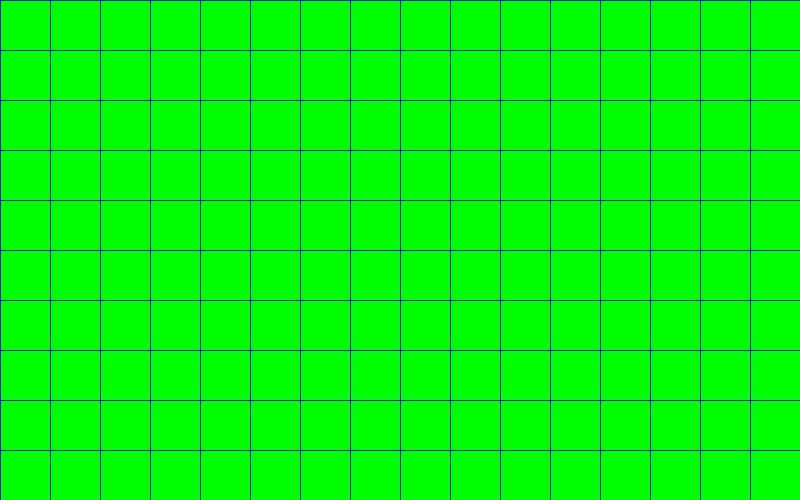
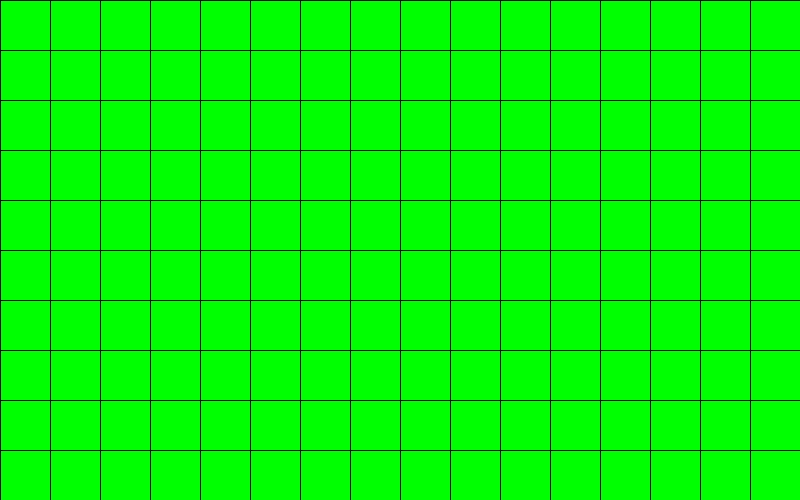
E5 completed 7/5/20

Changed region(s): [[0.0, 0.0, 1.0, 1.0]]

diff --git a/IME5780-E1-5208-8702/src/renderer/Render.java b/IME5780-E1-5208-8702/src/renderer/Render.java
@@ -1,7 +1,6 @@
 package renderer;
 
-import elements.Camera;
-import geometries.Intersectable;
+import primitives.Color;
 import primitives.Point3D;
 import primitives.Ray;
 import scene.Scene;
@@ -13,83 +12,96 @@ import java.util.List;
  *
  * @author AhronS, IsraelN
  */
-
 public class Render {
     private ImageWriter _imageWriter;
     private Scene _scene;
 
+    /**
+     * constructor render
+     *
+     * @param _imageWriter imageWriter object
+     * @param _scene       the scene to rend
+     */
     public Render(ImageWriter _imageWriter, Scene _scene) {
         this._imageWriter = _imageWriter;
         this._scene = _scene;
     }
 
     /**
+     * Finding the closest point to the camera
+     * that the ray intersection any geometries.
      *
+     * @param points list of points intersection
+     * @return the closest point to the camera
+     */
+    private Point3D getClosestPoint(List<Point3D> points) {
+        if (points == null)
+            throw new IllegalArgumentException("The list of points cannot be empty");
+        //initialization closesDistance to be the largest number of a double type
+        double minDistance = Double.MAX_VALUE;
+        Point3D closesPoint = null;
+        Point3D place = new Point3D(_scene.getCamera().getPlace());
+        for (Point3D p : points) {
+            double distance = place.distance(p);
+            if (place.distance(p) < minDistance) {
+                closesPoint = p;
+                minDistance = distance;
+            }
+        }
+        return closesPoint;
+    }
+
+    /**
+     * calculator the color
+     *
+     * @param point the closest point
+     * @return - The result from the extended calcColor function
+     */
+    private Color calcColor(Point3D point) {
+        return _scene.getAmbientLight().getIntensity();
+    }
+
+    /**
+     * Prints a grid on the background of our image
+     *
+     * @param _interval The interval between line to line
+     * @param _color    the color for the grid
+     */
+    public void printGrid(int _interval, java.awt.Color _color) {
+        //i = row, j = columns on the image (Nx X Ny)
+        for (int i = 0; i < this._imageWriter.getNx(); ++i)
+            for (int j = 0; j < this._imageWriter.getNy(); ++j) {
+                if (j % _interval == 0 || i % _interval == 0)
+                    _imageWriter.writePixel(j, i, _color);
+            }
+    }
+
+    /**
+     * Create the image color matrix from the scene
+     * And where there are points that are in the geometric body - then paint a special color
      */
     public void renderImage() {
-        Camera camera = _scene.getCamera();
-        Intersectable geometries = _scene.getGeometries();
-        java.awt.Color background = _scene.getBackground().getColor();
-
         int nX = _imageWriter.getNx();
         int nY = _imageWriter.getNy();
-
-        double width = _imageWriter.getWidth();
-        double height = _imageWriter.getHeight();
-        double distance = _scene.getDistance();
-
-        Ray ray;
-
-        for (int row = 0; row < nX; ++row)
-            for (int column = 0; column < nY; ++column) {
-                ray = camera.constructRayThroughPixel(nX, nY, column, row, distance, width, height);
-                List<Point3D> intersectionPoints = geometries.findIntersections(ray);
-                if (intersectionPoints == null) {
-                    _imageWriter.writePixel(column, row, background);
-                } else {
+        for (int i = 0; i < nX; ++i)
+            for (int j = 0; j < nY; ++j) {
+                Ray ray = _scene.getCamera().constructRayThroughPixel(nX, nY, j, i, _scene.getDistance(),
+                        _imageWriter.getWidth(), _imageWriter.getHeight());
+                List<Point3D> intersectionPoints = _scene.getGeometries().findIntersections(ray);
+                if (intersectionPoints == null)
+                    _imageWriter.writePixel(j, i, _scene.getBackground().getColor());
+                else {
                     Point3D closestPoint = getClosestPoint(intersectionPoints);
-                    _imageWriter.writePixel(column, row, calcColor(closestPoint));
+                    _imageWriter.writePixel(j, i, calcColor(closestPoint).getColor());
                 }
             }
     }
 
     /**
-     * @param p
+     * Function writeToImage produces unoptimized jpeg file of
+     * the image according to pixel color matrix in the directory
+     * of the project
      */
-    public void calcColor(Point3D p) {
-
-    }
-
-    /**
-     * this func return closest points to the camera (from points list)
-     *
-     * @param points list of points
-     * @return the point
-     */
-    public Point3D getClosestPoint(List<Point3D> points) {
-        if (points == null) {
-            throw new IllegalArgumentException("The list of points cannot be empty");
-        }
-
-        double minDistance = Double.MAX_VALUE;
-        Point3D result = null;
-        Point3D P0 = new Point3D(_scene.getCamera().getPlace());
-
-        for (Point3D p : points) {
-            double distance = P0.distance(p);
-
-            if (P0.distance(p) < minDistance) {
-                result = p;
-                minDistance = distance;
-            }
-        }
-        return result;
-    }
-
-    public void printGrid(int interval, java.awt.Color color) {
-
-    }
-
     public void writeToImage() {
         _imageWriter.writeToImage();
     }

diff --git a/IME5780-E1-5208-8702/src/scene/Scene.java b/IME5780-E1-5208-8702/src/scene/Scene.java
@@ -19,13 +19,19 @@ public class Scene {
     private Camera _camera;
     private double _distance;
 
-    // ****************************** Constructors *****************************/
+    // ****************************** Constructors *****************************//
+
+    /**
+     * constructoe for scene
+     *
+     * @param name of the scene
+     */
     public Scene(String name) {
         _name = name;
         _geometries = new Geometries();
     }
 
-    // ****************************** Getters *****************************/
+    // ****************************** Getters *****************************//
 
     /**
      * Scene getter
@@ -81,7 +87,7 @@ public class Scene {
         return _distance;
     }
 
-    // ****************************** Setters *****************************/
+    // ****************************** Setters *****************************//
 
     /**
      * Scene setter for background
@@ -116,7 +122,7 @@ public class Scene {
      *
      * @param geometries geo
      */
-     public void addGeometries(Intersectable... geometries) {
+    public void addGeometries(Intersectable... geometries) {
         _geometries.add(geometries);
     }
 }

diff --git a/IME5780-E1-5208-8702/unittests/renderer/ImageWriterTest.java b/IME5780-E1-5208-8702/unittests/renderer/ImageWriterTest.java
@@ -19,16 +19,13 @@ public class ImageWriterTest {
     public void testFirstImage() {
         // Test create new image (10*16 squares) and paint by write pixel
         ImageWriter imageWriter = new ImageWriter("myImage", 1600, 1000, 800, 500);
-        for (int i = 0; i < 800; i++) {
+        for (int i = 0; i < 800; i++)
             for (int j = 0; j < 500; j++) {
-                if (i % 50 == 0)
-                    imageWriter.writePixel(i, j, Color.black);
-                else if (j % 50 == 0)
+                if (i % 50 == 0 || j % 50 == 0)
                     imageWriter.writePixel(i, j, Color.black);
                 else
                     imageWriter.writePixel(i, j, Color.green);
             }
-        }
         imageWriter.writeToImage();
     }
 }

diff --git a/IME5780-E1-5208-8702/src/elements/Camera.java b/IME5780-E1-5208-8702/src/elements/Camera.java
@@ -17,7 +17,8 @@ public class Camera {
     private Vector vup;
     private Vector vright;
 
-    // ****************************** Getters *****************************/
+    // ****************************** Getters *****************************//
+
     /**
      * Camera getter
      *
@@ -54,7 +55,8 @@ public class Camera {
         return vright;
     }
 
-    // ****************************** Constructors *****************************/
+    // ****************************** Constructors *****************************//
+
     /**
      * constructor for camera with params
      *

diff --git a/IME5780-E1-5208-8702/src/elements/AmbientLight.java b/IME5780-E1-5208-8702/src/elements/AmbientLight.java
@@ -5,6 +5,7 @@ import primitives.Color;
 /**
  * class for ambient light
  * to add light for our image
+ * @author AhronS, IsraelN
  */
 public class AmbientLight {
     private Color _intensity;
@@ -16,7 +17,12 @@ public class AmbientLight {
         _intensity = i.scale(k);
     }
 
-    public Color GetIntensity() {
+    /**
+     * getter for intensity
+     *
+     * @return intensity
+     */
+    public Color getIntensity() {
         return _intensity;
     }
 }
